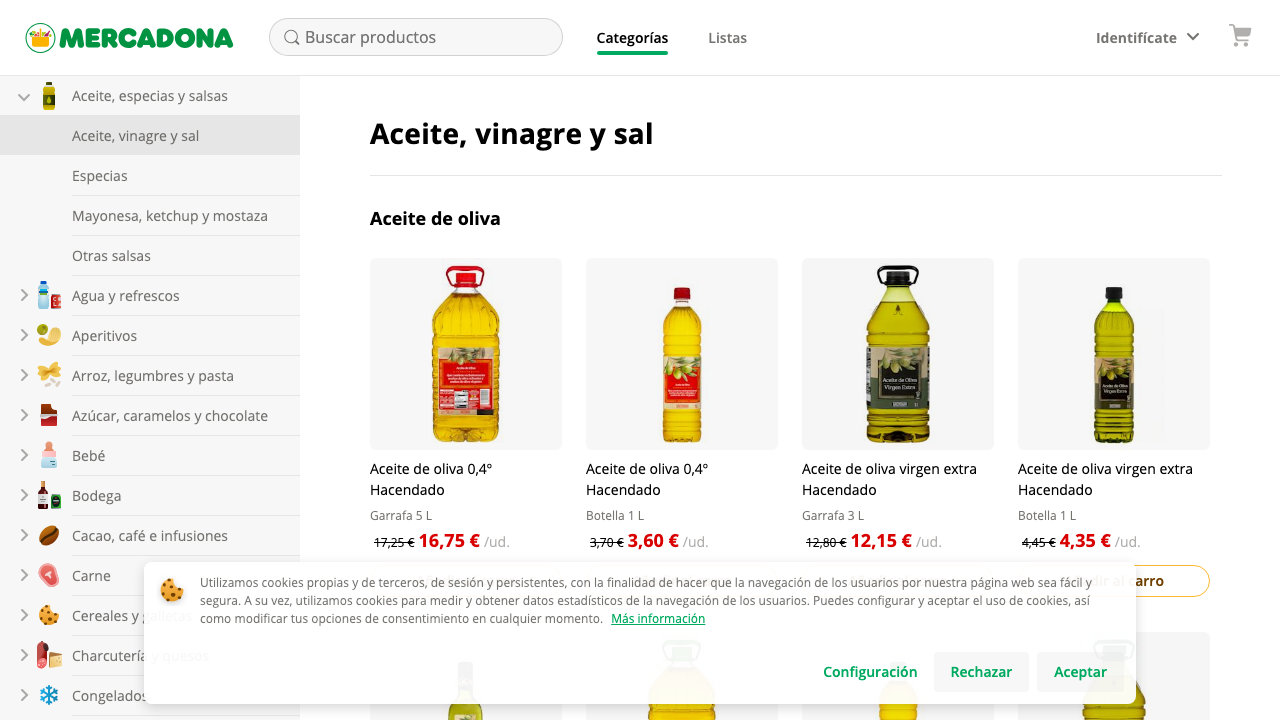
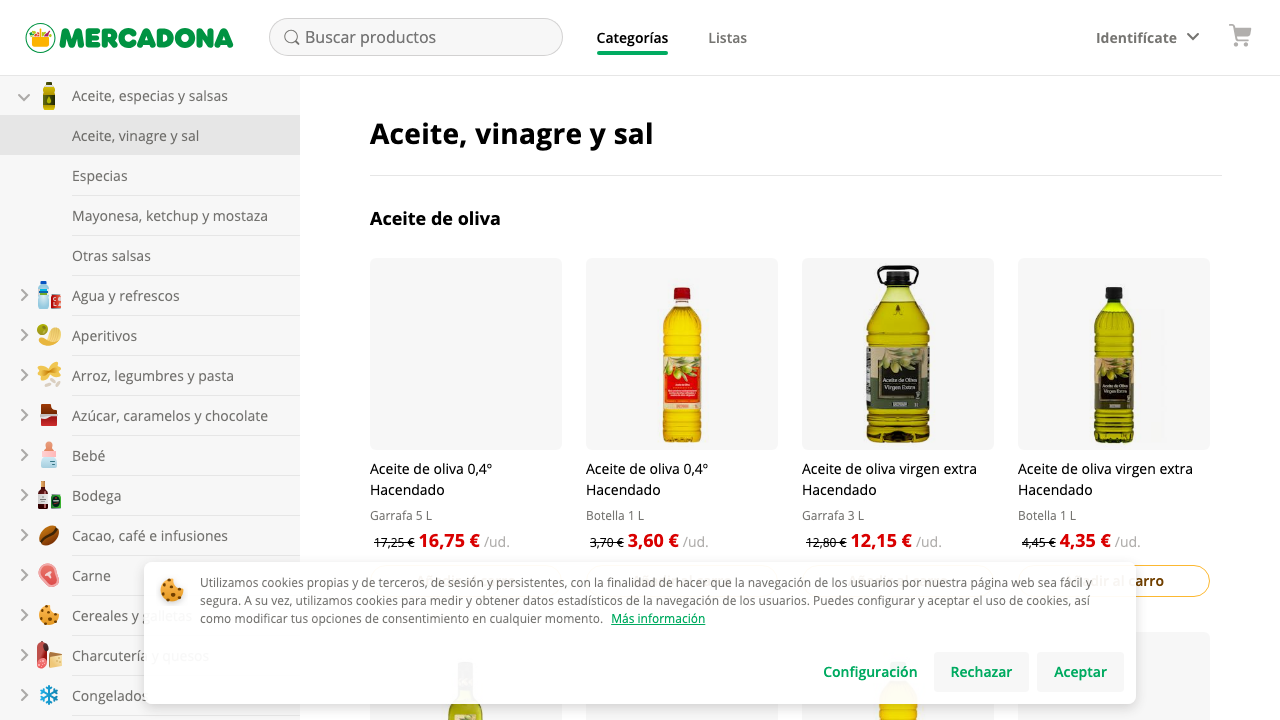
Fix image rendering

Changed region(s): [[0.3125, 0.3667, 0.4062, 0.6417], [0.8438, 0.9472, 0.9062, 1.0], [0.5, 0.9778, 0.5625, 1.0]]

diff --git a/Proyecto-1/src/proyecto_1/browser.py b/Proyecto-1/src/proyecto_1/browser.py
@@ -30,6 +30,7 @@ def introducir_CP(page, cp:str=CP):
     except TimeoutError as te:
         print(f"Error de conexión: {te}")
 
+    page = wait_images(page)
     print(f"Hemos entrado a la tienda de Mercadona: {page.url} con el CP: {cp}")
     page.screenshot(path="Screenshots/2_tienda.png")
 
@@ -40,7 +41,7 @@ def introducir_CP(page, cp:str=CP):
 def wait_images(page):
 
     # Esperamos a  que las imágenes se carguen. Nos desplazamos por la página. 
-    # Hay que parecer lo más humano posible.
+    # Hay que parecer lo más humano posible. También para hacer buenas screenshots
     # Código con IA
     page.evaluate("""
         async () => {
